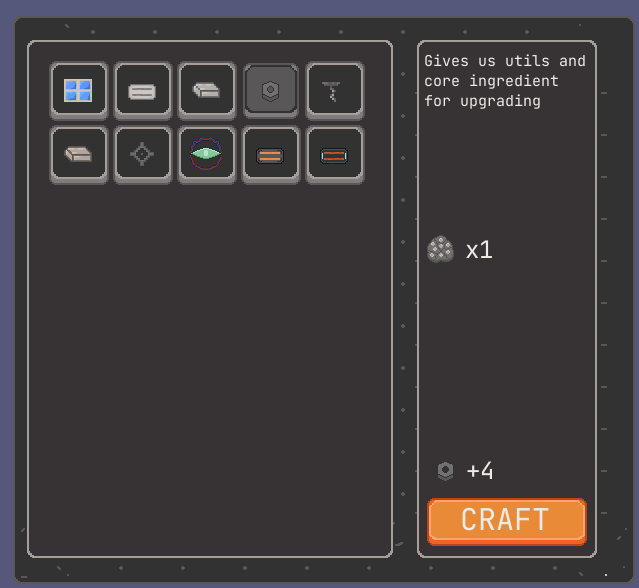
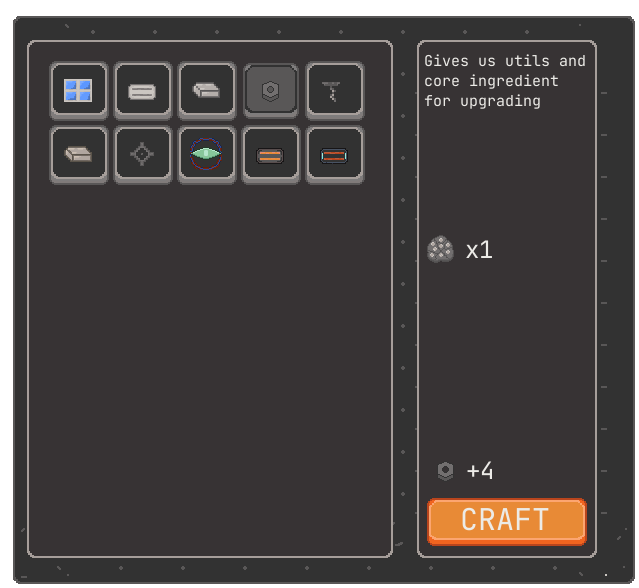
improved Readme.md

Changed region(s): [[0.0, 0.0, 1.0, 1.0]]

diff --git a/README.md b/README.md
@@ -17,8 +17,10 @@
 ## Credits and Details
 
 #### Created by the Team: THAT'S A PROMISE.
-- Julien - head of project
-- Gurujezz - head of design
-- AaronCode2 - assitant programmer and assitant designer
+- **Julien - head of project**
+- **Gurujezz - head of design**
+- **MessyGear - assitant programmer and assitant designer**
 
-Game created using python and pygame-ce library. No AI was used for coding or asset designing, made with blood, sweat and tears. Made for the [Pygame Game Jam](https://itch.io/jam/the-long-pygame-summer-jam)
+Game created using python and pygame-ce library. No AI was used for coding or asset designing, **made with blood, sweat and tears.** Made for the [Pygame Summer Game Jam](https://itch.io/jam/the-long-pygame-summer-jam)
+
+![pygame-ce](assets/screenshots/pygame.webp)
